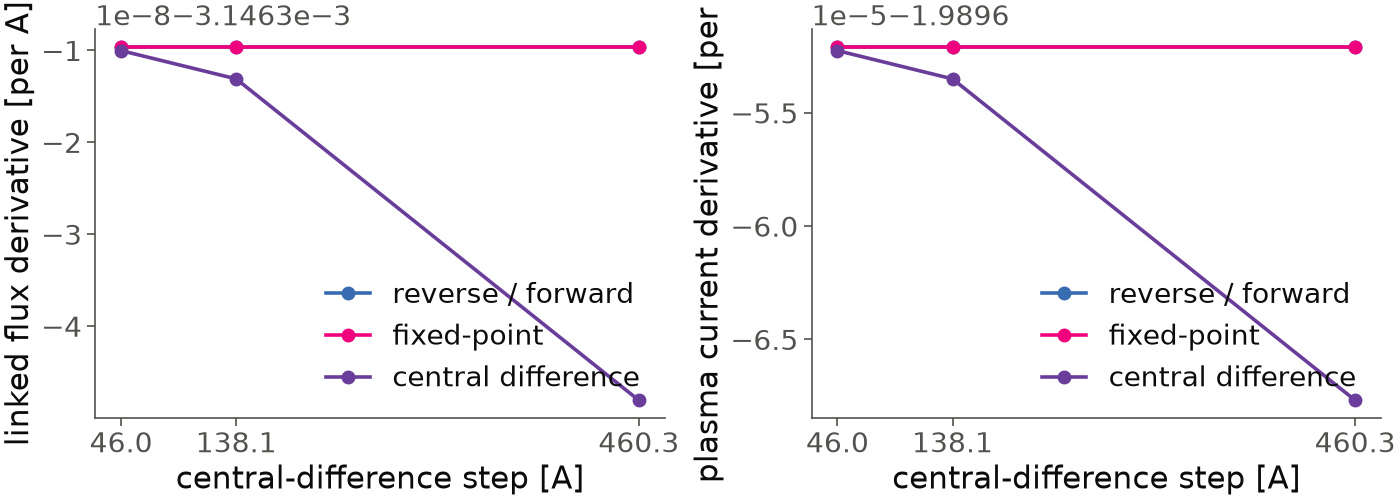
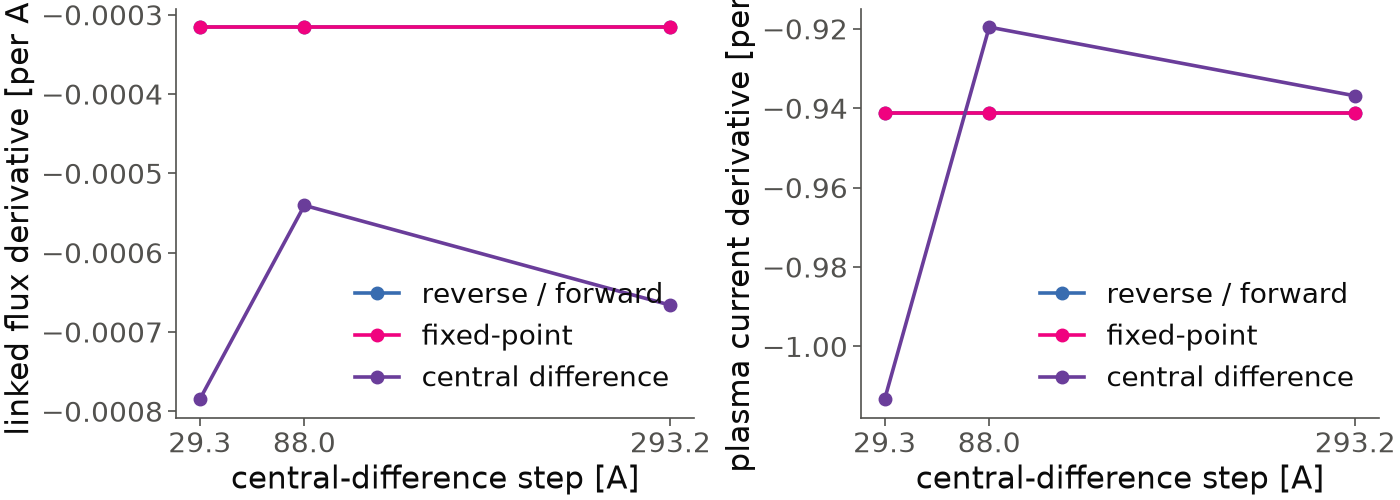
docs(evidence): distinguish smooth and nonsmooth witnesses
Record the probe-0 convergence control beside the probe-3 nonsmooth witness so the derivative receipt states the valid finite-difference interpretation.

diff --git a/docs/evidence/fragments/forward-solver-route-integrity/fsri-picard-implicit-derivative.html b/docs/evidence/fragments/forward-solver-route-integrity/fsri-picard-implicit-derivative.html
@@ -10,9 +10,29 @@
 <body>
 <main>
 <article class="landing" data-node="fsri-picard-implicit-derivative">
+  <p>The completed H200 receipt (driver SHA-256
+  <code>2b94cd72b13a057587bb13d694bcaf3c6037c38f3a090a4eb0544829fa35d31f</code>)
+  records both the automatic probe-0 selection and the explicit probe-3
+  witness. At probe 3, reverse, JVP, and implicit plasma-current tangents are
+  respectively <code>-0.9410909805213235</code>,
+  <code>-0.9410909805213235</code>, and
+  <code>-0.9410909805208577</code>; the linked-flux values likewise agree at
+  <code>-0.0003156228175298</code>. This matches the root-cause implicit
+  witness, whereas the archived unrolled route gave <code>-11.53687895156</code>.</p>
+  <table>
+    <thead><tr><th>probe</th><th>steps [A]</th><th>plasma-current finite difference</th><th>implicit relative error</th><th>reading</th></tr></thead>
+    <tbody>
+      <tr><td>0</td><td>460.2774, 138.0832, 46.0277</td><td>-1.98966769, -1.98965350, -1.98965225</td><td>7.84e-6, 7.05e-7, 7.84e-8</td><td>second-order convergence to the implicit tangent</td></tr>
+      <tr><td>3</td><td>293.1863, 87.9559, 29.3186</td><td>-0.93689360, -0.91957024, -1.01333897</td><td>0.00448, 0.02340, 0.07130</td><td>the primal is nonsmooth along this direction; its finite-difference ladder cannot discriminate below its own spread</td></tr>
+    </tbody>
+  </table>
+  <p>The map-tangent ladder remains 0.18544, 0.18618, 0.18619 and the moment
+  ladder remains 3.19177, 3.14823, 3.14745. They are separate boundary-flux
+  and clip-quadrature JVP defects owned by other nodes, not evidence against
+  the terminal Picard tangent.</p>
   <figure>
     <img src="/nova/figures/forward-solver-route-integrity/fsri-picard-implicit-derivative/derivative-estimates.png" alt="Implicit Picard derivatives and central-difference estimates for linked flux and plasma current">
-    <figcaption>H200 receipt at c75057d59: reverse, JVP, and implicit terminal-map tangents coincide; plasma-current central-difference relative error is 7.84e-08 at 46.03 A.</figcaption>
+    <figcaption>The displayed probe-3 witness shares reverse, JVP, and implicit tangents, but its central differences are nonsmooth. The receipt keeps probe 0 beside it as the converged finite-difference control.</figcaption>
   </figure>
 </article>
 </main>
